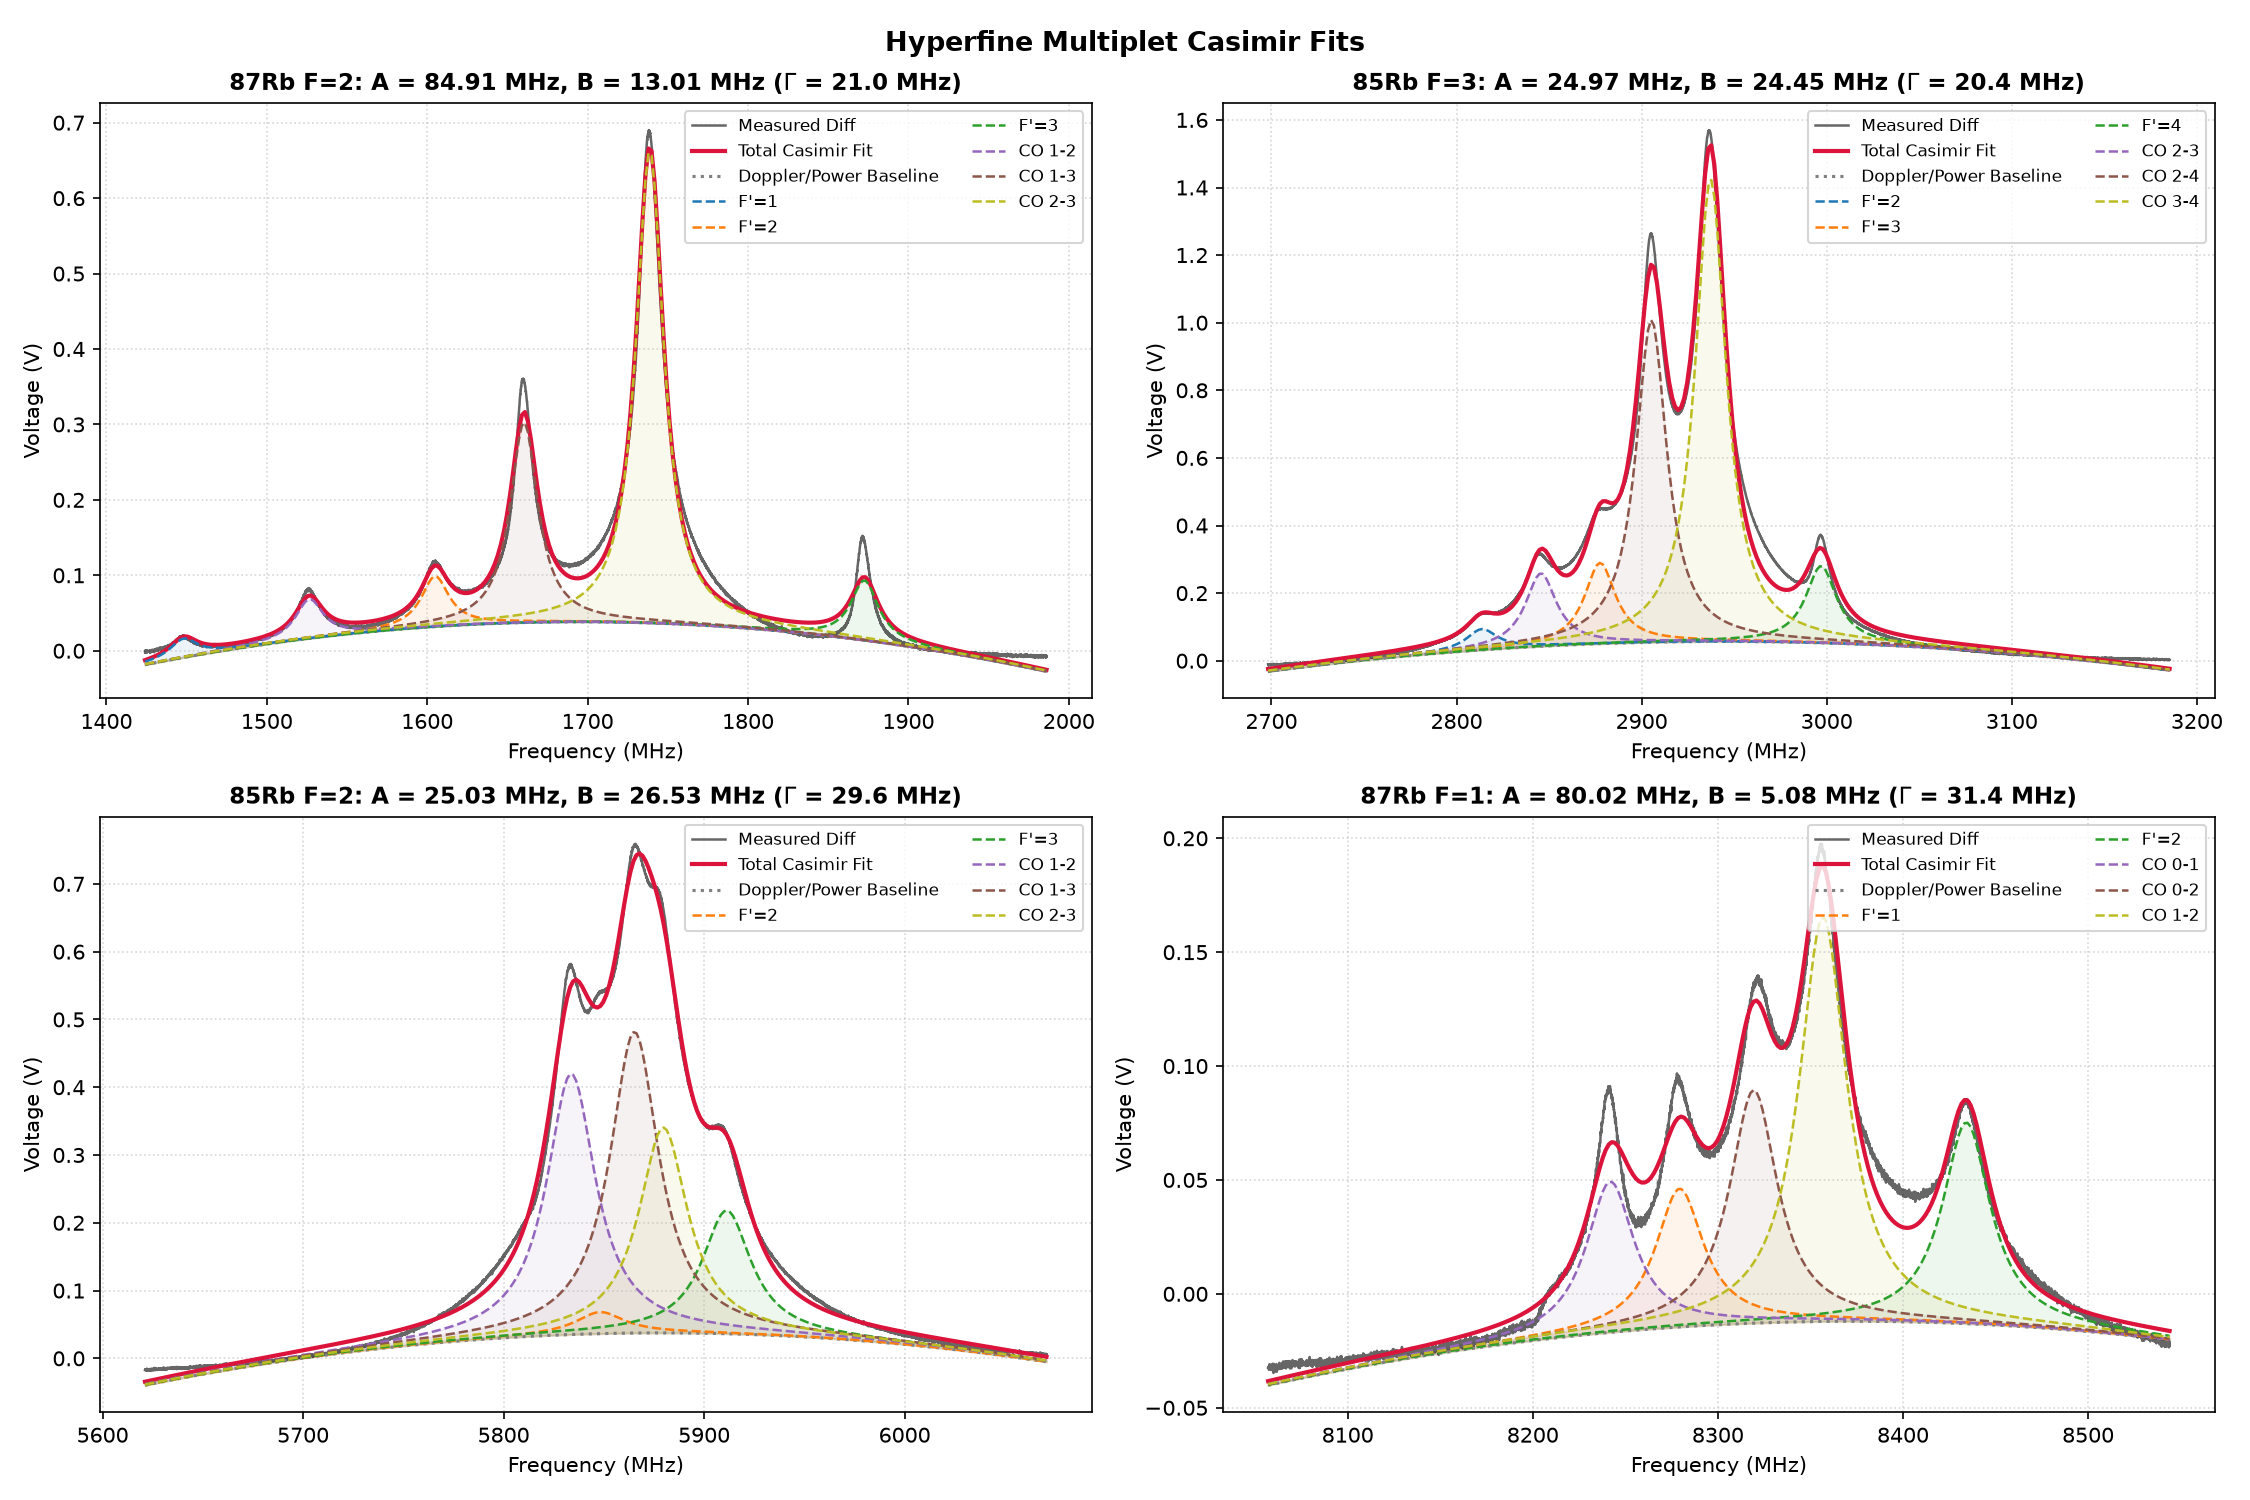
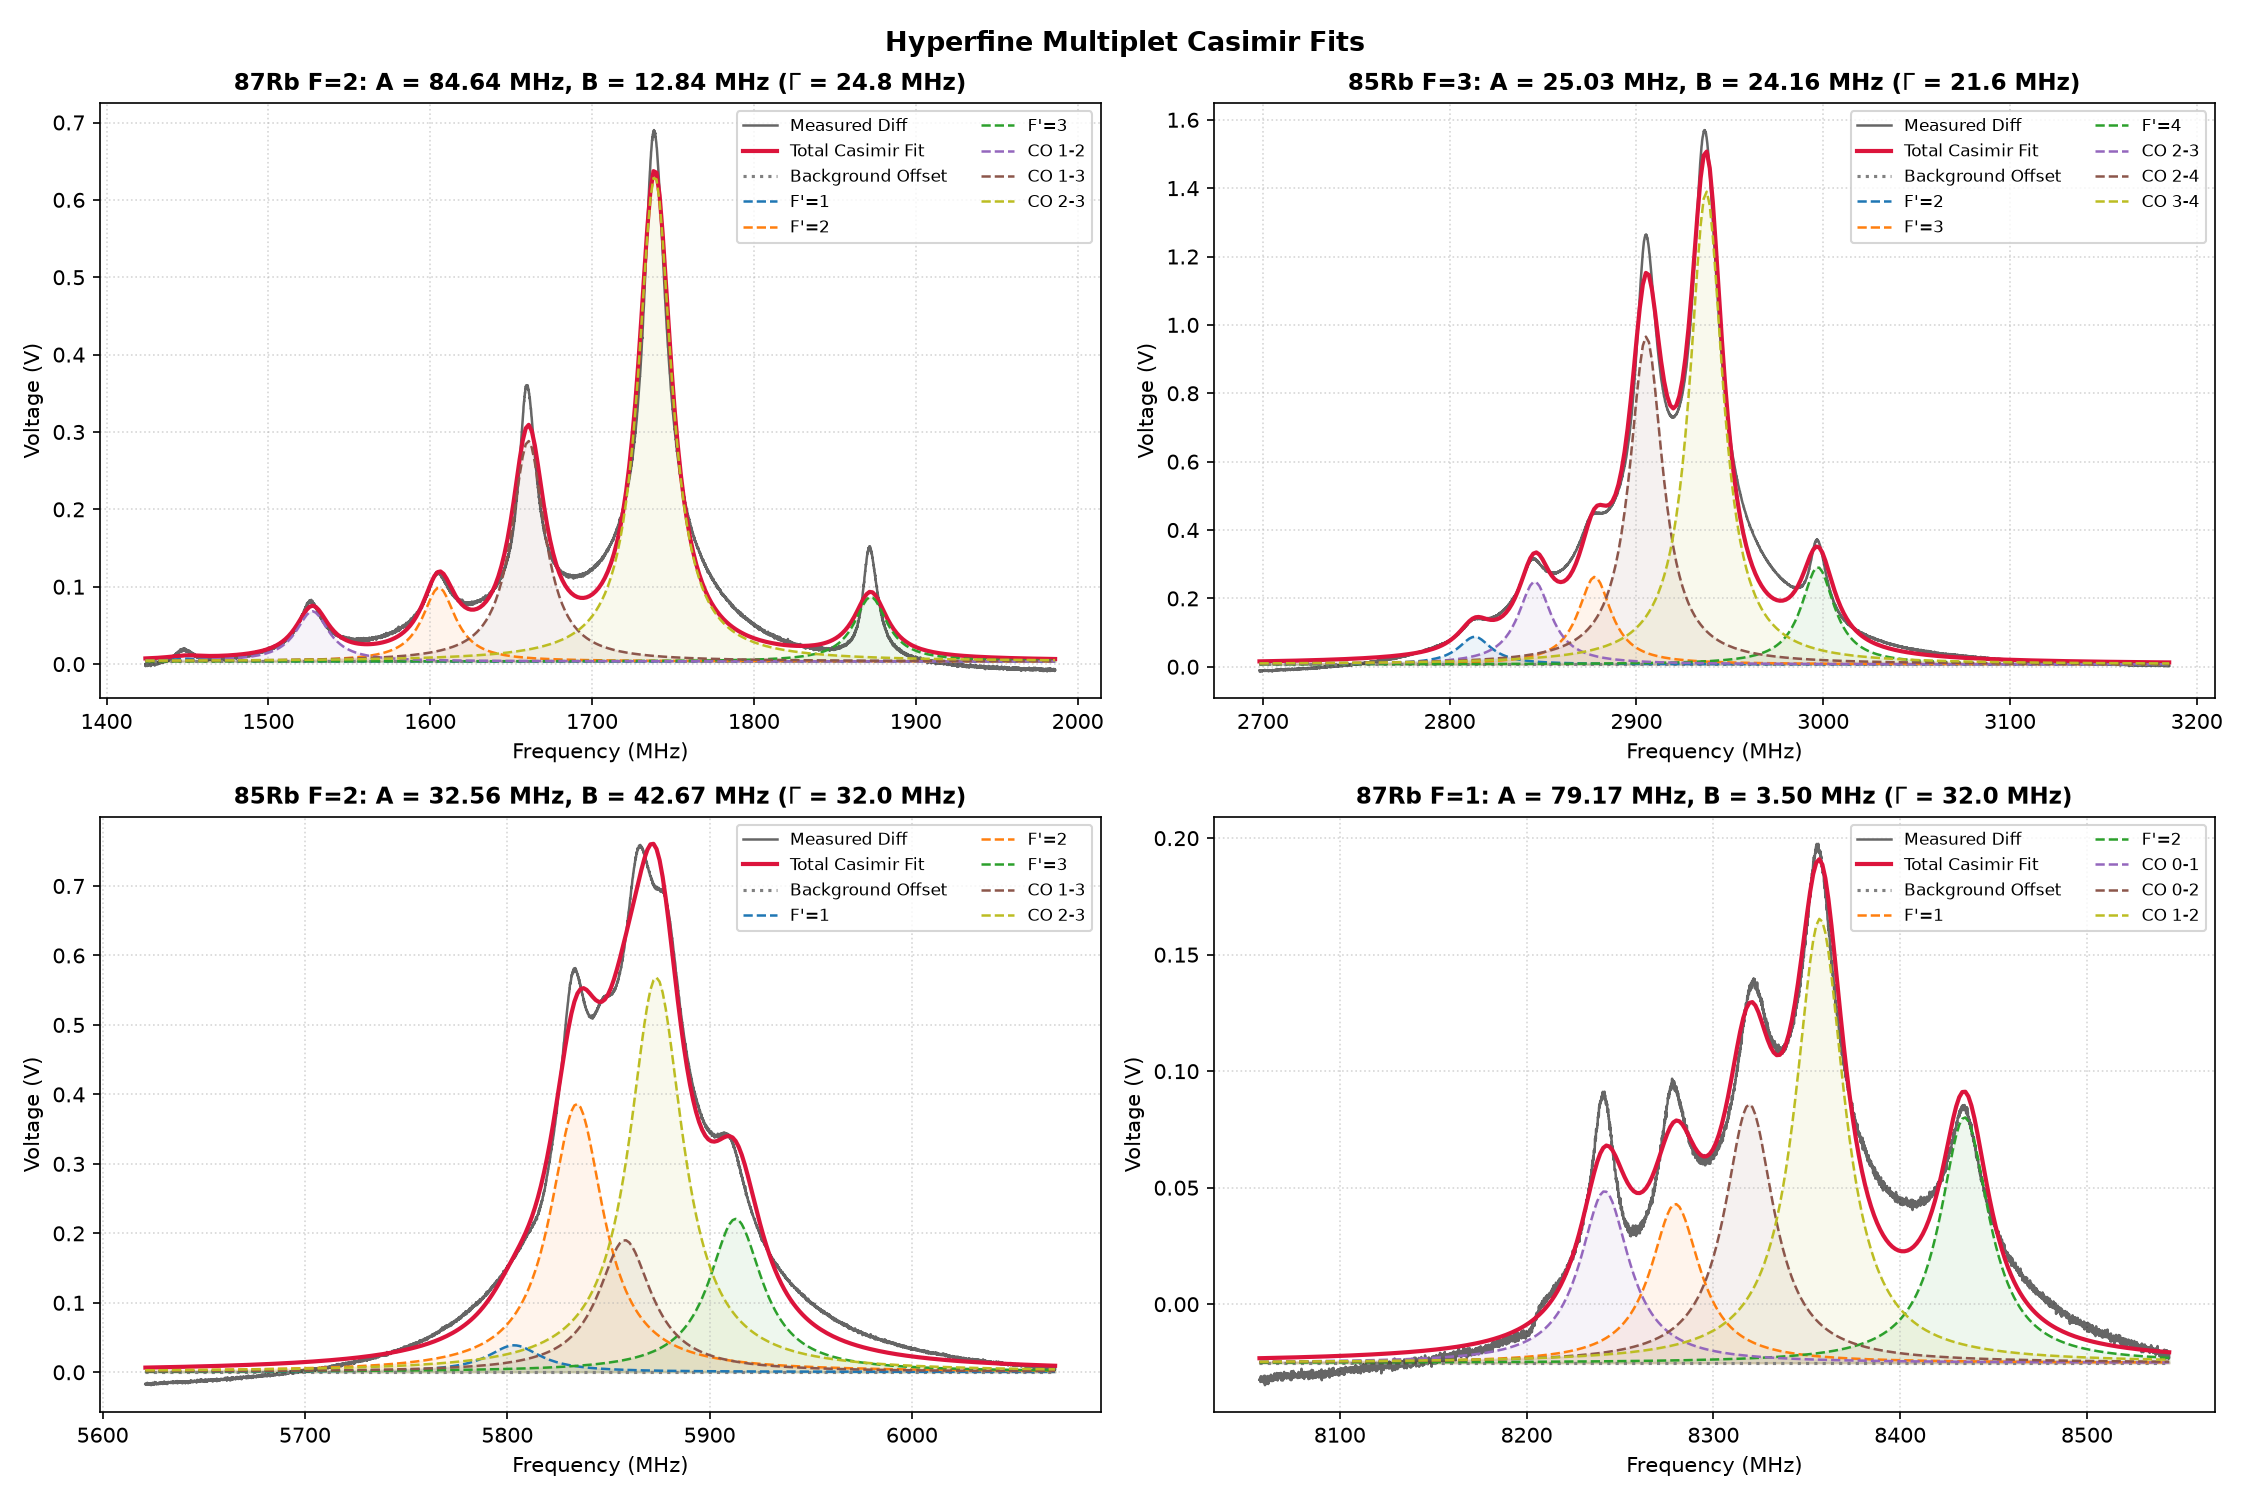
Removed quadratic background

diff --git a/main.py b/main.py
@@ -134,13 +134,10 @@ def fit_hyperfine_multiplets(freq, diff, windows=None, fsr=374.74):
 
         ref_idx = cfg.ref_index
 
-        x_mid = float(np.mean(x_mhz))
-
         def evaluate_model(p, x_eval):
-            nu_ref, A, B, gamma, c0, c1, c2 = p[:7]
-            amps = p[7:]
-            dx_eval = (x_eval - x_mid) / 1000.0
-            y_eval = c0 + c1 * dx_eval + c2 * dx_eval**2
+            nu_ref, A, B, gamma, bg = p[:5]
+            amps = p[5:]
+            y_eval = np.full_like(x_eval, bg)
             E_all = calc_peak_offsets(A, B, cfg.I, cfg.J, cfg.Fp_levels)
             offsets = E_all - E_all[ref_idx]
             for k in range(len(offsets)):
@@ -171,23 +168,22 @@ def fit_hyperfine_multiplets(freq, diff, windows=None, fsr=374.74):
 
         bg_init = float(np.percentile(y_data, 10))
         amp_init = float(np.max(y_data) - bg_init) / 3.0
-        p0 = np.array([nu_ref_init, A_init, B_init, 20.0, bg_init, 0.0, 0.0] + [amp_init] * 6, dtype=float)
+        p0 = np.array([nu_ref_init, A_init, B_init, 20.0, bg_init] + [amp_init] * 6, dtype=float)
 
-        lower = np.array([w_min * fsr - 100.0, 5.0, 0.0, 8.0, -1.0, -0.5, -2.0] + [0.0] * 6, dtype=float)
-        upper = np.array([w_max * fsr + 100.0, 150.0, 60.0, 32.0, 2.0, 0.5, 2.0] + [2.0] * 6, dtype=float)
+        lower = np.array([w_min * fsr - 100.0, 5.0, 0.0, 8.0, -1.0] + [0.0] * 6, dtype=float)
+        upper = np.array([w_max * fsr + 100.0, 150.0, 60.0, 32.0, 2.0] + [2.0] * 6, dtype=float)
 
         p0 = np.clip(p0, lower + 1e-4, upper - 1e-4)
 
         fit = least_squares(residuals, p0, bounds=(lower, upper), ftol=1e-5, xtol=1e-5)
-        nu_ref, A_fit, B_fit, gamma_fit, c0_fit, c1_fit, c2_fit = fit.x[:7]
-        amps_fit = fit.x[7:]
+        nu_ref, A_fit, B_fit, gamma_fit, bg_fit = fit.x[:5]
+        amps_fit = fit.x[5:]
         E_all_fit = calc_peak_offsets(A_fit, B_fit, cfg.I, cfg.J, cfg.Fp_levels)
         peak_offsets = E_all_fit - E_all_fit[ref_idx]
 
         x_dense = np.linspace(x_mhz[0], x_mhz[-1], 300)
         y_dense = evaluate_model(fit.x, x_dense)
-        dx_dense = (x_dense - x_mid) / 1000.0
-        bg_dense = c0_fit + c1_fit * dx_dense + c2_fit * dx_dense**2
+        bg_dense = np.full_like(x_dense, bg_fit)
 
         results.append({
             'name': cfg.name,
@@ -196,10 +192,8 @@ def fit_hyperfine_multiplets(freq, diff, windows=None, fsr=374.74):
             'gamma': float(gamma_fit),
             'f0_mhz': float(nu_ref),
             'f0_fringe': float(nu_ref / fsr),
+            'bg': float(bg_fit),
             'bg_dense': bg_dense,
-            'c0': float(c0_fit),
-            'c1': float(c1_fit),
-            'c2': float(c2_fit),
             'amplitudes': amps_fit,
             'peak_freqs': nu_ref + peak_offsets,
             'peak_names': cfg.names,
@@ -263,8 +257,8 @@ def plot_hyperfine_fits(results, title="Hyperfine Multiplet Casimir Fits", save_
         ax.plot(res['x_fit'], res['y_fit'], color='crimson', linewidth=2.0, label='Total Casimir Fit')
         
         x_dense = res['x_fit']
-        bg_dense = res.get('bg_dense', np.full_like(x_dense, res.get('c0', 0.0)))
-        ax.plot(x_dense, bg_dense, color='gray', linestyle=':', linewidth=1.5, label='Doppler/Power Baseline')
+        bg_dense = res.get('bg_dense', np.full_like(x_dense, res.get('bg', 0.0)))
+        ax.plot(x_dense, bg_dense, color='gray', linestyle=':', linewidth=1.5, label='Background Offset')
 
         gamma = res['gamma']
         peak_names = res.get('peak_names', [])
